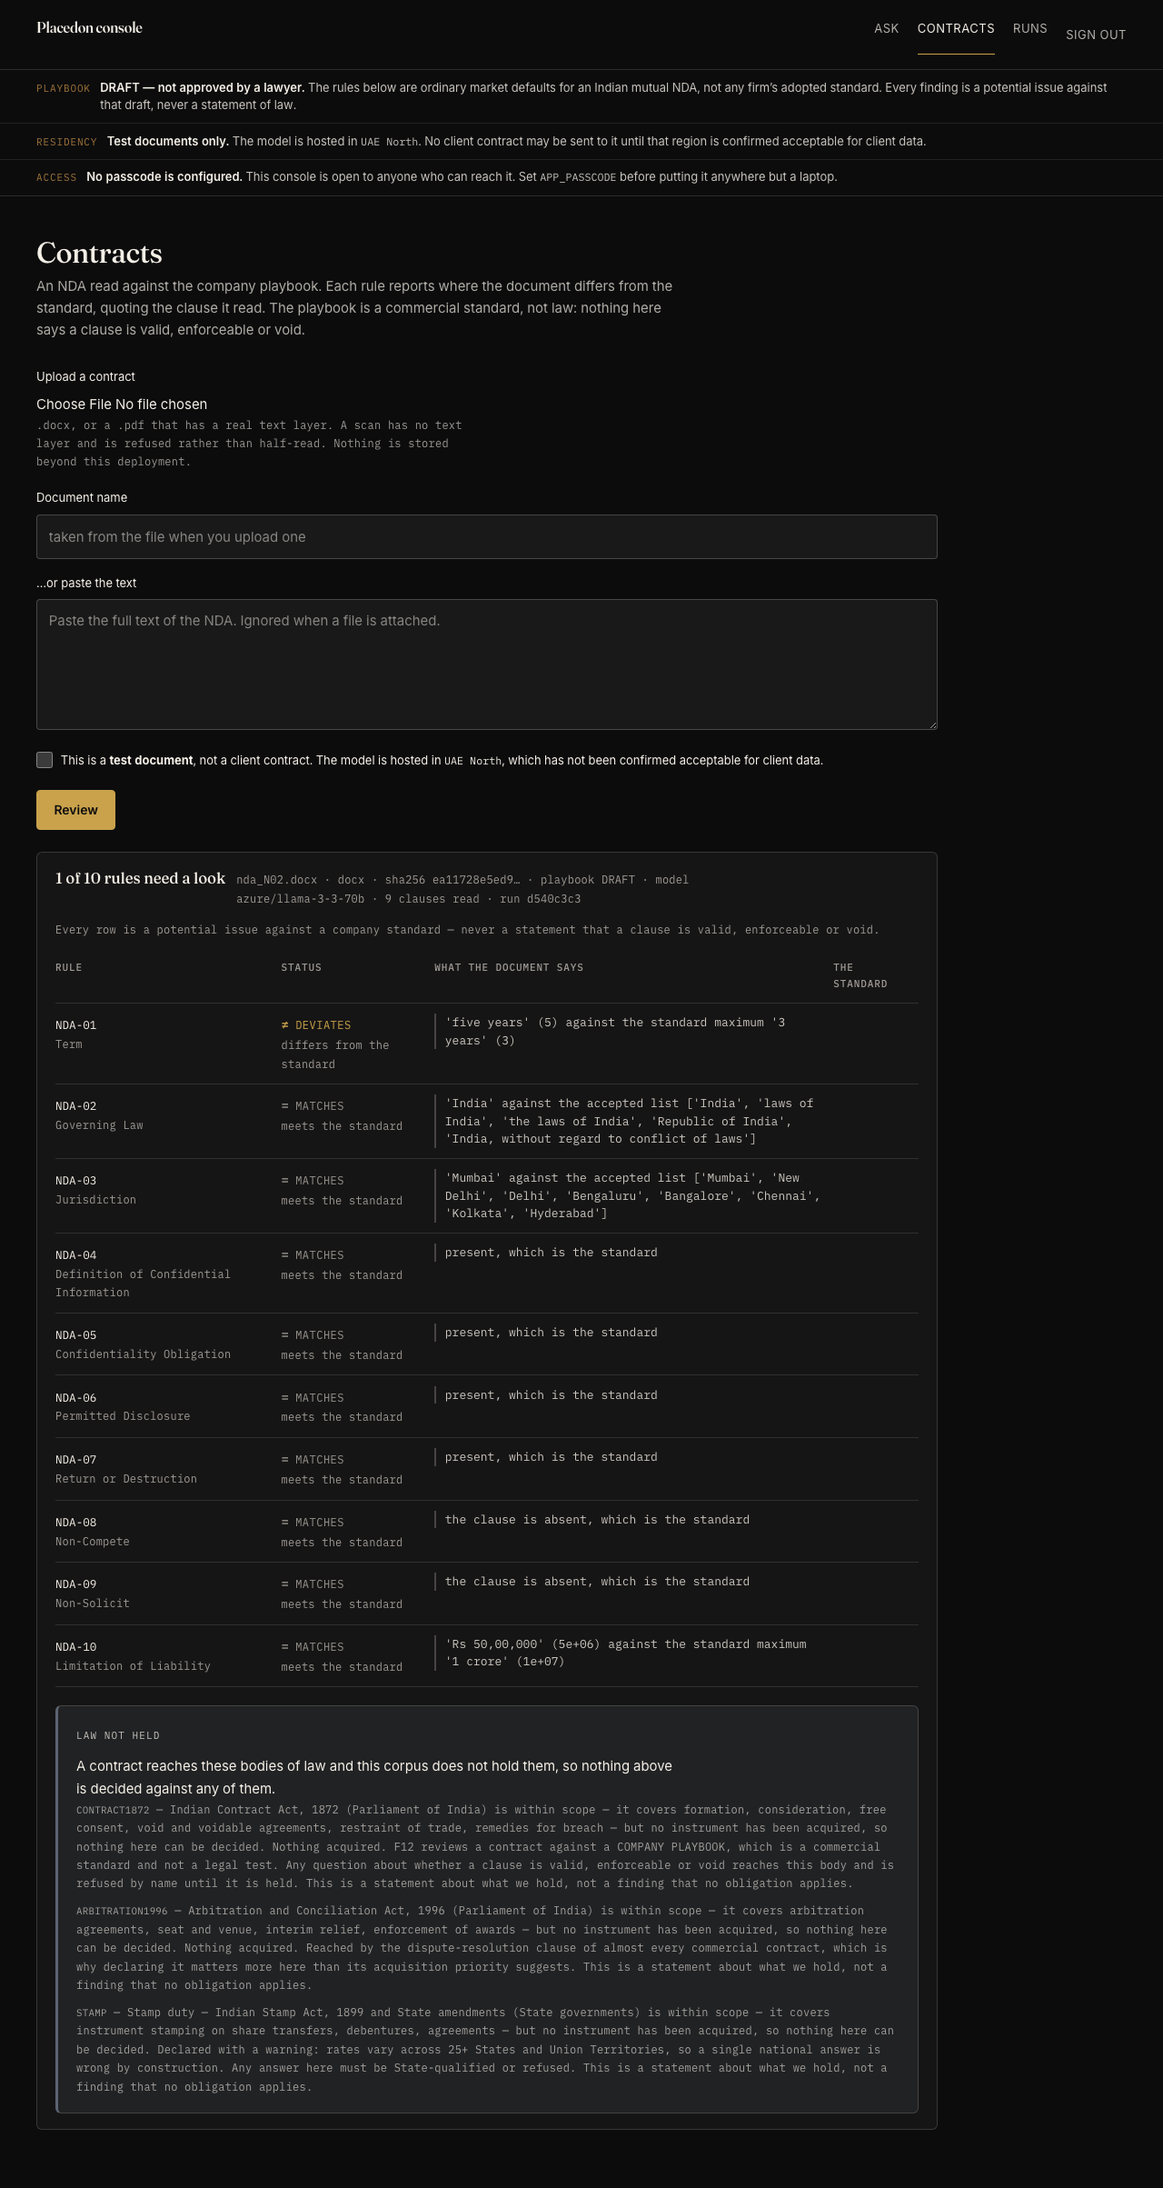
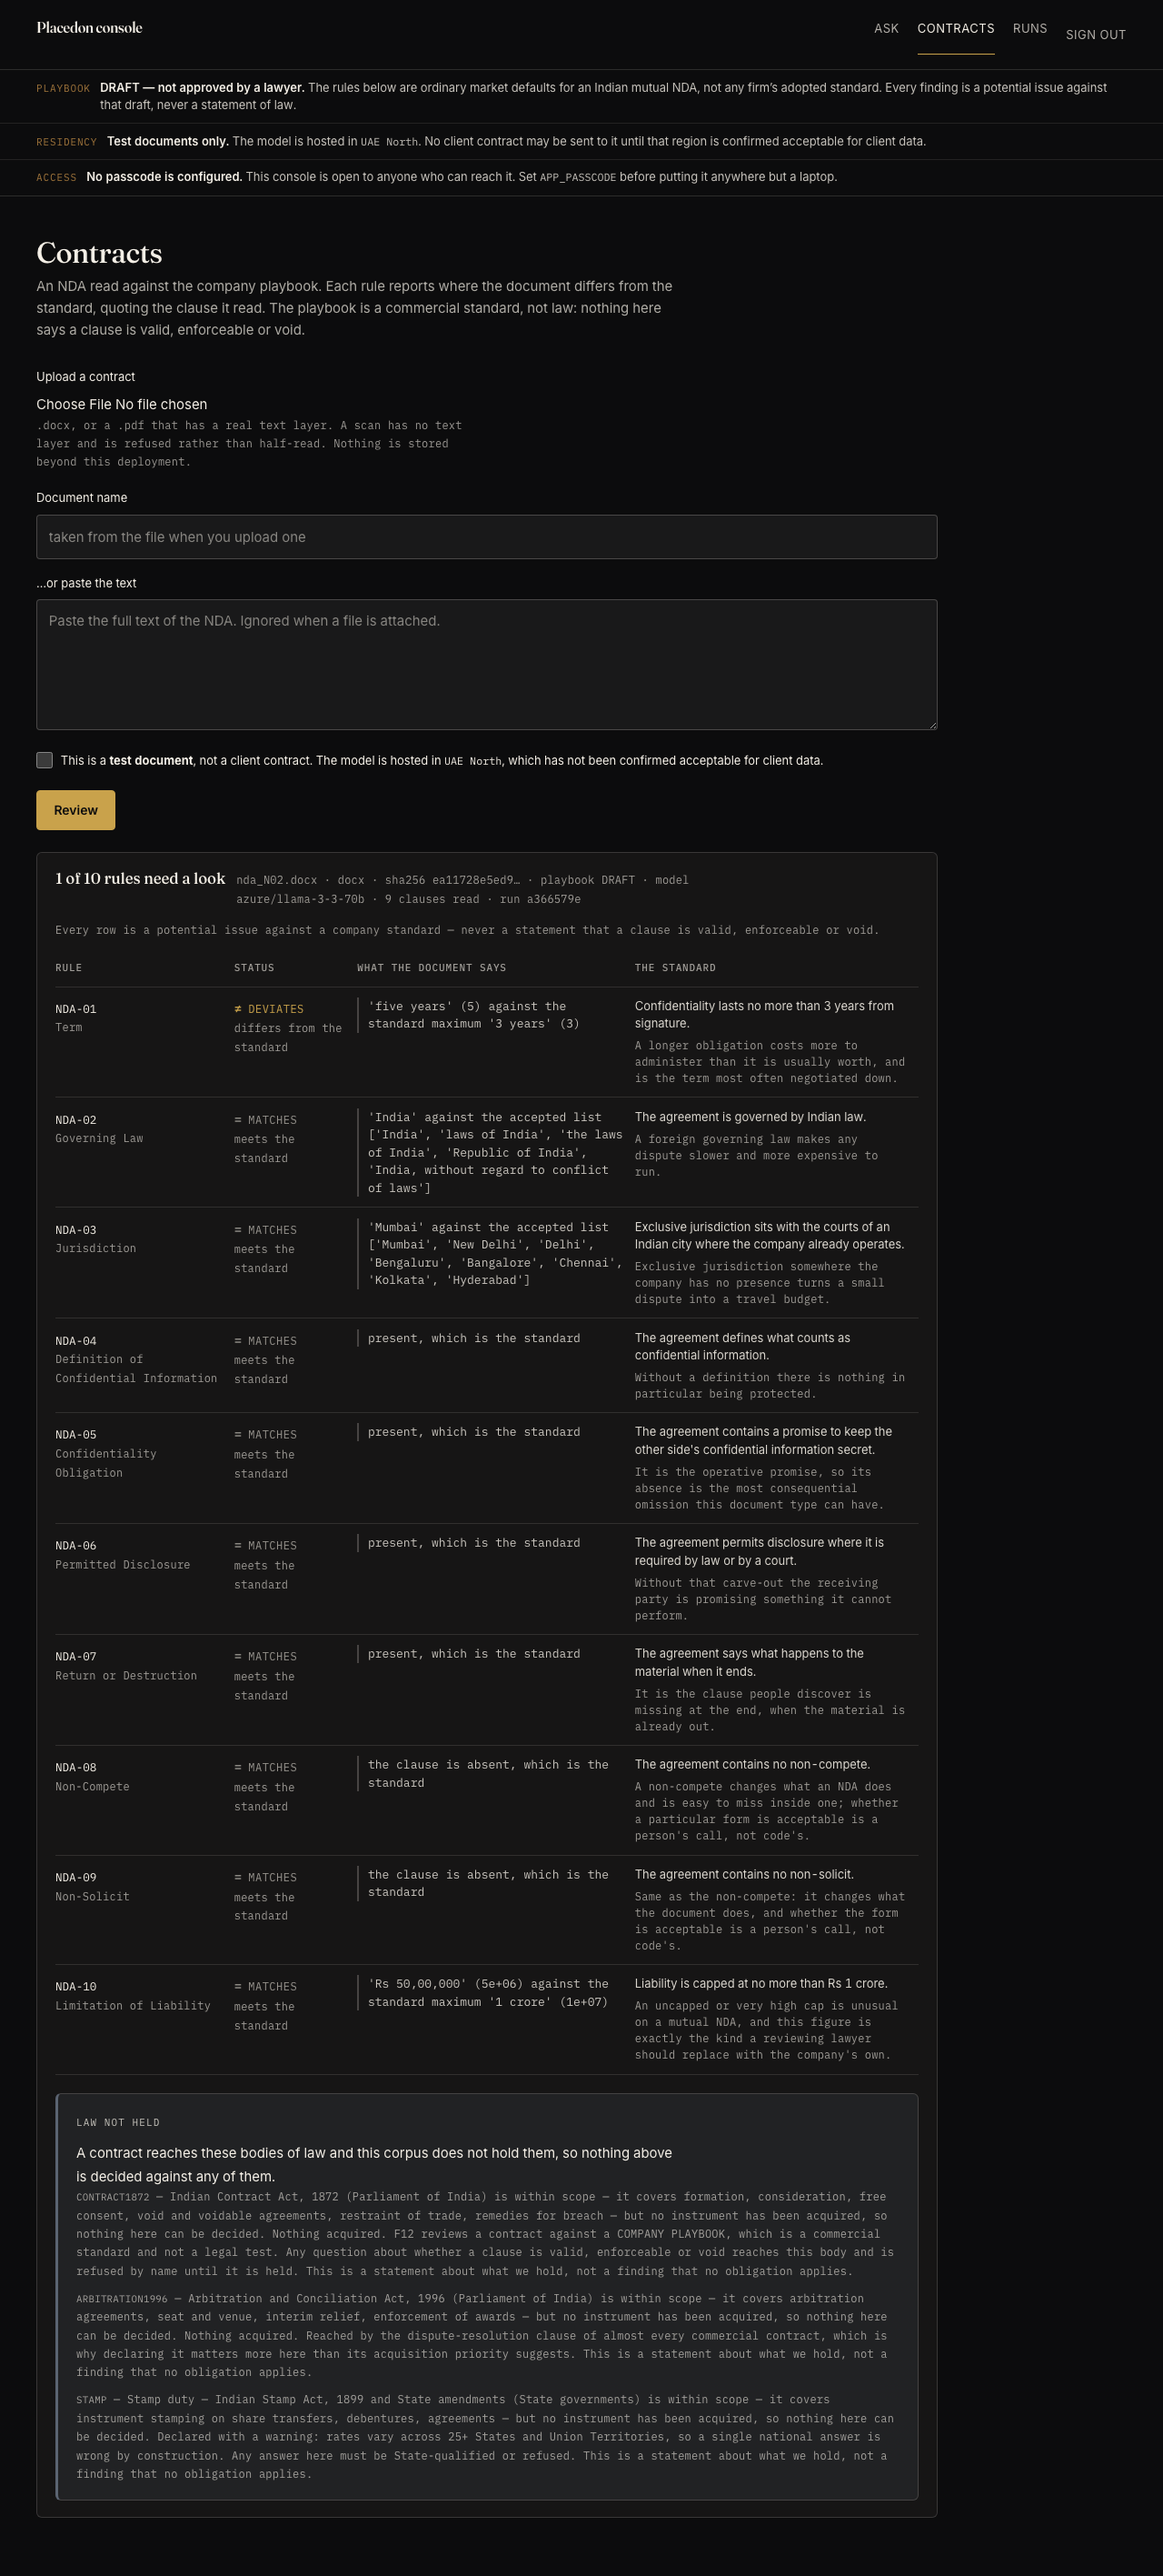
feat(app): the standard column carries the company position, not a blank
The backend now sends `standard_text` and `rationale` on every finding (PR #20,
`4235e94`), so the column that rendered a header and nothing under it is filled: the
position in body type, the reason in mono beneath it. Body type is deliberate — one is a
sentence a person wrote for another person, the other is the machine comparison beside it.

**A missing standard renders a sentence, not an empty cell.** An older gateway that sends
no standard now produces "The playbook sent no standard for this rule." Silence there
reads as "no standard applies", which is the opposite of what a finding means. Both fields
stay optional in the schema so such a response still parses rather than throwing.

**The mock was corrected at the same time and now quotes the playbook's real sentences.**
It had four rules with invented rationale prose — the prose that made the empty live column
a surprise rather than a known gap. A mock that is more flattering than the product is the
failure this repo has already paid for once.

**docs/app-screens/README.md corrects one of its own entries.** Difference 8 said "both
runs of the same question returned the same single sentence". That was true of the two runs
behind the screenshot and false in general: two further runs of the identical question
returned 3 traced and 1 dropped instead of 1 and 1. The status `PARTIAL` is the stable
thing; the counts are not, and the entry now says so. Difference 4 (the empty column) is
[…]

diff --git a/src/lib/gateway/mock.ts b/src/lib/gateway/mock.ts
@@ -108,7 +108,10 @@ export class MockGateway implements GatewayProvider {
           clause: "Term",
           status: fiveYears ? "DEVIATES" : "MATCHES",
           kind: "POTENTIAL_ISSUE",
-          why: "Confidentiality obligations running longer than three years are hard to administer and are usually negotiated down.",
+          standard_text:
+            "Confidentiality lasts no more than 3 years from signature.",
+          rationale:
+            "A longer obligation costs more to administer than it is usually worth, and is the term most often negotiated down.",
           detail: fiveYears
             ? "'five years' (5) against the standard maximum '3 years' (3)"
             : "'three years' (3) against the standard maximum '3 years' (3)",
@@ -118,7 +121,10 @@ export class MockGateway implements GatewayProvider {
           clause: "Governing Law",
           status: "MATCHES",
           kind: "POTENTIAL_ISSUE",
-          why: "An Indian counterparty agreement governed by foreign law makes enforcement slower and more expensive.",
+          standard_text:
+            "The agreement is governed by Indian law.",
+          rationale:
+            "A foreign governing law makes any dispute slower and more expensive to run.",
           detail: "'India' against the accepted list ['India', 'laws of India', …]",
         },
         {
@@ -126,7 +132,10 @@ export class MockGateway implements GatewayProvider {
           clause: "Definition of Confidential Information",
           status: "MISSING",
           kind: "POTENTIAL_ISSUE",
-          why: "An NDA with no definition of what is confidential protects nothing in particular.",
+          standard_text:
+            "The agreement defines what counts as confidential information.",
+          rationale:
+            "Without a definition there is nothing in particular being protected.",
           detail: "the standard expects this clause and none was extracted",
         },
         {
@@ -134,7 +143,10 @@ export class MockGateway implements GatewayProvider {
           clause: "Non-Compete",
           status: "NEEDS_LAWYER",
           kind: "POTENTIAL_ISSUE",
-          why: "A non-compete inside an NDA is out of place and is frequently missed because nobody expects to find one there.",
+          standard_text:
+            "The agreement contains no non-compete.",
+          rationale:
+            "A non-compete changes what an NDA does and is easy to miss inside one; whether a particular form is acceptable is a person's call, not code's.",
           detail: "present, and not in the approved list. Code cannot decide whether this form is acceptable; a person has to look",
         },
       ],

diff --git a/tests/gateway.test.ts b/tests/gateway.test.ts
@@ -1,7 +1,7 @@
 import assert from "node:assert/strict";
 import test from "node:test";
 
-import { parseAnswer } from "../src/lib/gateway/types";
+import { findingSchema, parseAnswer } from "../src/lib/gateway/types";
 import { MockGateway } from "../src/lib/gateway/mock";
 import { mintToken, tokenIsValid, MAX_AGE_SECONDS } from "../src/lib/auth/token";
 
@@ -104,6 +104,34 @@ test("review of a five-year NDA DEVIATES on the term rule", async () => {
   for (const s of ["MATCHES", "DEVIATES", "MISSING", "NEEDS_LAWYER"]) {
     assert.ok(statuses.has(s as never), `${s} must be reachable`);
   }
+});
+
+test("every finding carries the standard it was judged against", async () => {
+  const r = await new MockGateway().reviewContract({
+    text: "This Agreement continues for five years from the date above.",
+    testData: true,
+  });
+  assert.ok(r.ok);
+  // The column was blank on every live run until the gateway started sending these:
+  // a DEVIATES with no standard beside it is a deviation from nothing.
+  for (const f of r.data.findings) {
+    assert.ok(f.standard_text?.trim(), `${f.rule_id} has no standard_text`);
+    assert.ok(f.rationale?.trim(), `${f.rule_id} has no rationale`);
+    assert.notEqual(f.standard_text, f.detail, "the standard is not the comparison");
+  }
+});
+
+test("a finding with no standard still parses, so an older gateway is not a crash", () => {
+  const parsed = findingSchema.safeParse({
+    rule_id: "NDA-01",
+    clause: "Term",
+    status: "DEVIATES",
+    kind: "POTENTIAL_ISSUE",
+    detail: "'five years' (5) against the standard maximum '3 years' (3)",
+  });
+  assert.equal(parsed.success, true);
+  // …and the console renders a sentence saying so rather than an empty cell.
+  assert.equal(parsed.success && parsed.data.standard_text, undefined);
 });
 
 test("law this corpus does not hold travels WITH the findings", async () => {

diff --git a/src/lib/gateway/types.ts b/src/lib/gateway/types.ts
@@ -53,7 +53,22 @@ export const findingSchema = z.object({
   status: findingStatusSchema,
   /** Always `POTENTIAL_ISSUE`. The backend has exactly one kind, deliberately. */
   kind: z.string(),
-  /** The company standard, in the playbook author's words. */
+  /**
+   * The company position, in one sentence, and why it is taken. Both are DRAFT — the
+   * `playbook_status` on the response is what marks them, and there is deliberately no
+   * second status for them to fall out of step with.
+   *
+   * Optional because a response from an older gateway does not carry them. When they are
+   * absent the cell says so rather than rendering blank: an empty standard beside a
+   * DEVIATES reads as "nothing to deviate from", which is not what happened.
+   */
+  standard_text: z.string().optional(),
+  rationale: z.string().optional(),
+  /**
+   * The engineering note on the rule's shape. The gateway no longer sends it — NDA-02's
+   * is a changelog about a false-alarm rate — and it is kept optional only so an older
+   * response still parses.
+   */
   why: z.string().optional(),
   /** What was compared against what. */
   detail: z.string(),

diff --git a/src/app/app/contracts/contract-console.tsx b/src/app/app/contracts/contract-console.tsx
@@ -208,7 +208,21 @@ function Row({ finding }: { finding: Finding }) {
       <td>
         <p className="quoted">{finding.detail}</p>
       </td>
-      <td>{finding.why ? <span className="meta">{finding.why}</span> : null}</td>
+      <td>
+        {finding.standard_text ? (
+          <>
+            <p className="standard-text">{finding.standard_text}</p>
+            {finding.rationale ? (
+              <p className="meta standard-rationale">{finding.rationale}</p>
+            ) : null}
+          </>
+        ) : (
+          // Not a blank cell. A standard the backend did not send is a finding whose
+          // basis is missing, and saying so is the honest render — silence here reads
+          // as "no standard applies", which is the opposite of what a finding means.
+          <span className="meta">The playbook sent no standard for this rule.</span>
+        )}
+      </td>
     </tr>
   );
 }

diff --git a/src/app/app/app.css b/src/app/app/app.css
@@ -227,6 +227,17 @@
   color: color-mix(in srgb, var(--cream) 58%, transparent);
 }
 
+/* The company position. Set in the body face, not mono: it is a sentence a person wrote
+   for another person to read, unlike the quoted comparison beside it, which is machine
+   output. `.standard-rationale` inherits `.meta` and sits under it as the reason. */
+.standard-text {
+  margin: 0;
+  font-size: 0.8125rem;
+  line-height: 1.5;
+  color: color-mix(in srgb, var(--cream) 88%, transparent);
+}
+.standard-rationale { margin: 0.35rem 0 0; line-height: 1.5; }
+
 .quoted {
   font-family: var(--font-code);
   font-size: 0.8125rem;

diff --git a/docs/app-screens/README.md b/docs/app-screens/README.md
@@ -1,9 +1,11 @@
 # /app screenshots — LIVE
 
-Every image in this directory is a **live capture**, taken 2026-09-29 against the real
-backend gateway on this laptop: PostgreSQL 18.6 (`store: postgres, degraded: false`),
-`azure/llama-3-3-70b` deployed in **UAE North**, corpus
-`sha256:6809b8c8…`, checker commit `6d3ac4a4`. No fixtures, no mock provider.
+Every image in this directory is a **live capture** against the real backend gateway on
+this laptop: PostgreSQL 18.6 (`store: postgres, degraded: false`), `azure/llama-3-3-70b`
+deployed in **UAE North**, corpus `sha256:6809b8c8…`. No fixtures, no mock provider.
+
+Four were taken 2026-09-29 at checker commit `6d3ac4a4`. `contracts-findings.png` was
+re-taken 2026-09-30 at `4235e94`, after the standard column was filled — difference 4.
 
 They replace an earlier set taken against `MockProvider`. The mock set is not kept: a
 screenshot of a fixture in a directory called `app-screens` is the kind of thing that
@@ -13,7 +15,7 @@ gets cited later as evidence the product did something it has never done.
 |---|---|---|
 | `ask-answer.png` | Ask — a cited answer | `d3830a4c` |
 | `ask-refusal.png` | Ask — a named abstention | `568282e1` |
-| `contracts-findings.png` | Contracts — `nda_N02.docx` uploaded and reviewed | `d540c3c3` |
+| `contracts-findings.png` | Contracts — `nda_N02.docx` uploaded and reviewed | `a366579e` |
 | `runs-list.png` | Runs — the three runs this browser started | — |
 | `run-trace.png` | Run — steps, models, region, cost | `d540c3c3` |
 
@@ -55,13 +57,23 @@ is the standard"* — absence as compliance, a case the mock never showed. The t
 are still implemented and still distinguishable without colour; this fixture does not
 produce them.
 
-### 4. "THE STANDARD" column is empty on every live row
+### 4. "THE STANDARD" column was empty on every live row — now CLOSED
 
 The mock filled it with rationale prose (*"Confidentiality obligations running longer than
-three years are hard to administer…"*). The real `playbooks/nda_v1.json` carries no such
-field, so the column renders with a header and nothing under it. **The prose in the mock
-was written for the screenshot and does not exist in the product.** Either the playbook
-gains a `rationale` per rule or the column goes — an open item, not a resolved one.
+three years are hard to administer…"*). The real `playbooks/nda_v1.json` carried no such
+field, so the column rendered with a header and nothing under it. The prose in the mock was
+written for the screenshot and did not exist in the product.
+
+**Fixed 2026-09-29** (backend PR #20, `4235e94`): every rule now states a `standard_text` —
+the company position in one plain sentence — and a `rationale`, `review_contract` sends
+both, and the console renders the position in body type with the reason beneath it. Both
+are DRAFT, marked by the `playbook_status` already on the response. `why`, the engineering
+note on the rule's shape, is deliberately NOT sent: NDA-02's is a changelog about a
+false-alarm rate, which is not what a lawyer's column is for.
+
+`contracts-findings.png` was re-captured live after the fix and shows all ten cells filled.
+The mock fixtures were updated to the playbook's real sentences at the same time, so the
+mock stops being a more flattering description of the product than the product.
 
 ### 5. The trace is a different pipeline
 
@@ -94,9 +106,15 @@ dependency, and the gateway's `documents.upload` verb returned the digest.
 ### 8. The live answer is thinner than the mock's
 
 Mock: 3 cited sentences from s.96 (spans 226–348, 409–524, 845–1043), 1 of 4 untraced.
-Live: **1** cited sentence (span 826–1044), 1 of 2 untraced — both runs of the same
-question returned the same single sentence. The header reads **Partial answer** in both
-cases, which is the honest label; what differs is how much survives grounding.
+Live, in `ask-answer.png`: **1** cited sentence (span 826–1044), 1 of 2 untraced.
+
+**The counts are not stable, and this entry originally said they were.** It read "both runs
+of the same question returned the same single sentence", which was true of the two browser
+runs behind that screenshot and false in general: two further runs the same day returned
+3 traced and 1 dropped on the identical question. The model writes a different number of
+sentences each time, so a different number survive grounding. What is stable is the STATUS
+— `PARTIAL` on every run — and that the dropped ones are counted rather than dropped
+quietly. Never quote the traced/dropped numbers as a figure.
 
 Note the span for the same sentence: mock `845–1043`, live `826–1044`. Fixture offsets
 were approximations of real ones.
